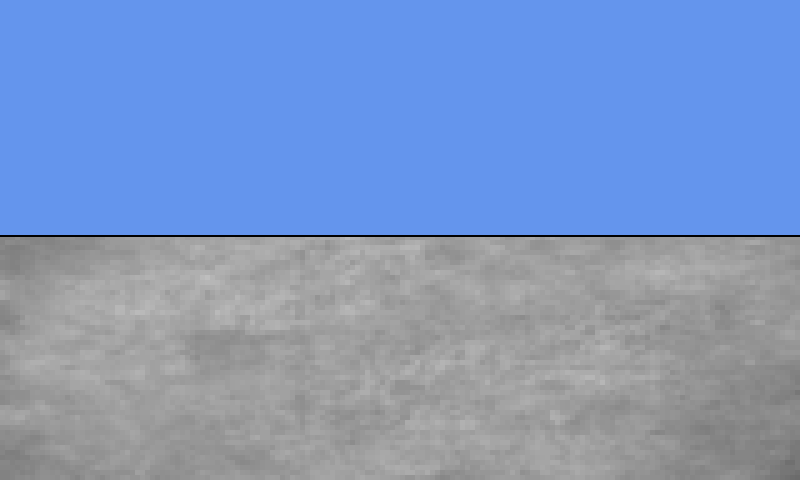
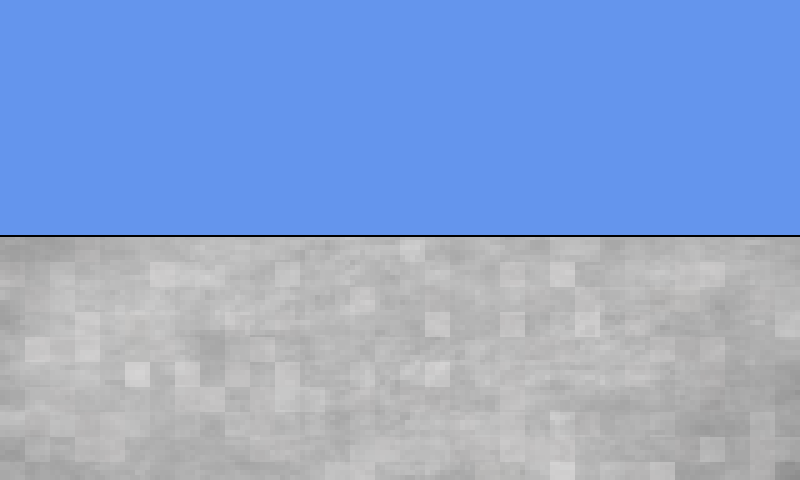
1.1.5
Changed snow background, added snow encounter
Added statue sprite
TODO:
work on statue fight
make new snow enemy (snowman?)

diff --git a/Game1.cs b/Game1.cs
@@ -57,6 +57,7 @@ namespace TheGame
         //Declaring Enemies
         Texture2D smileyEnemySprite;
         Texture2D smileyChieftanSprite;
+        Texture2D statueEnemySprite;
 
         // Declaring misc
         Texture2D mountainSprite;
@@ -64,6 +65,7 @@ namespace TheGame
         Texture2D bulletSprite;
         Texture2D cloudSprite;
         Texture2D whiteSquareSprite;
+        Texture2D storeSprite;
 
         //Listing stuff
         List<Bullet> bullets = new List<Bullet>();
@@ -107,6 +109,7 @@ namespace TheGame
         // 0 = none
         // 1 = smiley
         // 2 = smiley chieftain
+        // 3 = statue
         int enemyToFight = 0;
 
         // Player stuff
@@ -162,6 +165,7 @@ namespace TheGame
         public Rectangle settingsButtonRect;
         public Rectangle exitButtonRect;
         public Rectangle gateRect;
+        public Rectangle storeRect;
 
         public Rectangle plainsRect = new Rectangle(400, 0, 300, 345);
         public Rectangle snowRect= new Rectangle(100, 0, 310, 245);
@@ -303,6 +307,7 @@ namespace TheGame
             //Enemies
             smileyEnemySprite = Content.Load<Texture2D>("Enemies/Smiley");
             smileyChieftanSprite = Content.Load<Texture2D>("Enemies/SmileyChieftain");
+            statueEnemySprite = Content.Load<Texture2D>("Enemies/statue");
 
             //Misc
             mountainSprite = Content.Load<Texture2D>("Scenery/Mountain");
@@ -310,6 +315,7 @@ namespace TheGame
             gateSprite = Content.Load<Texture2D>("Scenery/gatewip");
             bulletSprite = Content.Load<Texture2D>("Items/Bullet");
             whiteSquareSprite = Content.Load<Texture2D>("Items/whitesquare");
+            storeSprite = Content.Load<Texture2D>("Scenery/store");
         }
 
         protected override void Update(GameTime gameTime)
@@ -607,7 +613,7 @@ namespace TheGame
                                     smileys.RemoveAt(i);
                                 }
                             }
-                            if (gameTime.TotalGameTime.TotalMilliseconds > timeSinceLastSmileySpawn + 7500 || smileys.Count <= 0)
+                            if (gameTime.TotalGameTime.TotalMilliseconds > timeSinceLastSmileySpawn + 7500 || smileys.Count <= 0 && gameTime.TotalGameTime.TotalMilliseconds > timeSinceLastSmileySpawn + 1000)
                             {
                                 int extraSmiley = new Random().Next(1, 3);
                                 smileys.Add(new Smiley(smileyEnemySprite, new Vector2(570 * resScale, 240 * resScale), new Vector2(550 * resScale, 240 * resScale), resScale, 5 * healthMultiplier, 4));
@@ -742,7 +748,7 @@ namespace TheGame
 
         void SinglePlayerEncounter(GameTime gameTime)
         {
-            if (isMapMoving)
+            if (isMapMoving && !redguyMapRect.Intersects(storeRect))
             {
                 if (isInPlains)
                 {
@@ -764,7 +770,22 @@ namespace TheGame
                     }
                 } else if (isInSnow)
                 {
-                    
+                    if (gameTime.TotalGameTime.TotalMilliseconds > timeSinceLastEncounter + 1500)
+                    {
+                        if (gameTime.TotalGameTime.TotalMilliseconds > timeSinceLastEncounterAttempt + 1500)
+                        {
+                            int numberTo5 = new Random().Next(1, 6);
+                            if (numberTo5 == 1)
+                            {
+                                SnowEncounter(gameTime);
+                                timeSinceLastEncounterAttempt = gameTime.TotalGameTime.TotalMilliseconds;
+                            }
+                            else
+                            {
+                                timeSinceLastEncounterAttempt = gameTime.TotalGameTime.TotalMilliseconds;
+                            }
+                        }
+                    }
                 } else if (isInDesert)
                 {
                     
@@ -777,17 +798,18 @@ namespace TheGame
 
         void PlainsEncounter(GameTime gameTime)
         {
+            ClearEnemies();
             isMapMoving = false;
             redguyPos = new Vector2(162 * resScale, 258 * resScale);
             blueguyPos = new Vector2(60 * resScale, 330 * resScale);
             lastKnownPos = mapPos;
             inWorldMap = false;
             inCombat = true;
-            int etf = new Random().Next(1, 11);
-            if (etf <= 6)
+            int etf = new Random().Next(1, 101);
+            if (etf <= 60)
             {
                 enemyToFight = 1;
-            } else if (etf >= 7) {
+            } else if (etf >= 61) {
                 enemyToFight = 2;
             }
             if (enemyToFight == 1)
@@ -830,9 +852,20 @@ namespace TheGame
             }
         }
 
+        void SnowEncounter(GameTime gameTime)
+        {
+            ClearEnemies();
+            isMapMoving = false;
+            redguyPos = new Vector2(162 * resScale, 258 * resScale);
+            blueguyPos = new Vector2(60 * resScale, 330 * resScale);
+            lastKnownPos = mapPos;
+            inWorldMap = false;
+            inCombat = true;
+        }
+
         void EndCombat(GameTime gameTime)
         {
-            bullets.Clear();
+            ClearEnemies();
             timeSinceLastEncounter = gameTime.TotalGameTime.TotalMilliseconds;
             enemyToFight = 0;
             inCombat = false;
@@ -842,7 +875,6 @@ namespace TheGame
             blueguyHealth = 3;
             ClearScenery();
             SpawnScenery();
-            ClearEnemies();
         }
 
         void ForceEncounter(GameTime gameTime)
@@ -853,7 +885,7 @@ namespace TheGame
             }
             else if (isInSnow)
             {
-
+                SnowEncounter(gameTime);
             }
             else if (isInDesert)
             {
@@ -1035,6 +1067,9 @@ namespace TheGame
                         mountains[i].Draw(_spriteBatch);
                     }
                     // Buildings / Scenery
+                    storeRect = new Rectangle(570 * resScale, 165 * resScale, storeSprite.Width * resScale, storeSprite.Height * resScale);
+                    _spriteBatch.Draw(whiteSquareSprite, new Rectangle(565 * resScale, 202 * resScale, (storeSprite.Width + 10) * resScale, 10 * resScale), new Color(Color.Black, 75));
+                    _spriteBatch.Draw(storeSprite, storeRect, Color.White);
                     if (inSingleplayer)
                     {
                         if (mousePos.X < mapPos.X + 7 * resScale)
@@ -1044,6 +1079,10 @@ namespace TheGame
                         else
                         {
                             _spriteBatch.Draw(redguySprite, redguyMapRect, Color.White);
+                        }
+                        if (mapPos.Y < storeRect.Y + 13 * resScale)
+                        {
+                            _spriteBatch.Draw(storeSprite, storeRect, Color.White);
                         }
                     }
                     if (inCoop)
@@ -1061,10 +1100,13 @@ namespace TheGame
                 if (inCombat)
                 {
                     // Drawing maps
-                    Rectangle plainsMapRect = new Rectangle(0, 0, plainsBackgroundSprite.Width * resScale, plainsBackgroundSprite.Height * resScale);
+                    Rectangle combatMapRect = new Rectangle(0, 0, plainsBackgroundSprite.Width * resScale, plainsBackgroundSprite.Height * resScale);
                     if (isInPlains)
                     {
-                        _spriteBatch.Draw(plainsBackgroundSprite, plainsMapRect, Color.White);
+                        _spriteBatch.Draw(plainsBackgroundSprite, combatMapRect, Color.White);
+                    } else if (isInSnow)
+                    {
+                        _spriteBatch.Draw(snowBackgroundSprite, combatMapRect, Color.White);
                     }
                     if (inSingleplayer)
                     {

diff --git a/Statue.cs b/Statue.cs
@@ -1,0 +1,42 @@
+using Microsoft.Xna.Framework;
+using Microsoft.Xna.Framework.Graphics;
+using System;
+using System.Collections.Generic;
+using System.Text;
+
+namespace TheGame
+{
+    class Statue
+    {
+        public double moveStart = 0;
+        double moveDelay = 500;
+        bool canDoAction = true;
+        double timeSinceLastAction = 0;
+        public int health;
+        int randomNumberToSix;
+
+        public Vector2 position;
+        Texture2D texture;
+        public Rectangle rectangle;
+        int scale;
+
+        public Statue(Texture2D texture, Vector2 position, int scale, int health)
+        {
+            this.texture = texture;
+            this.position = position;
+            this.scale = scale;
+            this.health = health;
+        }
+
+        public void EnemyAction()
+        {
+
+        }
+
+        public void Draw(SpriteBatch spriteBatch)
+        {
+
+        }
+
+    }
+}
